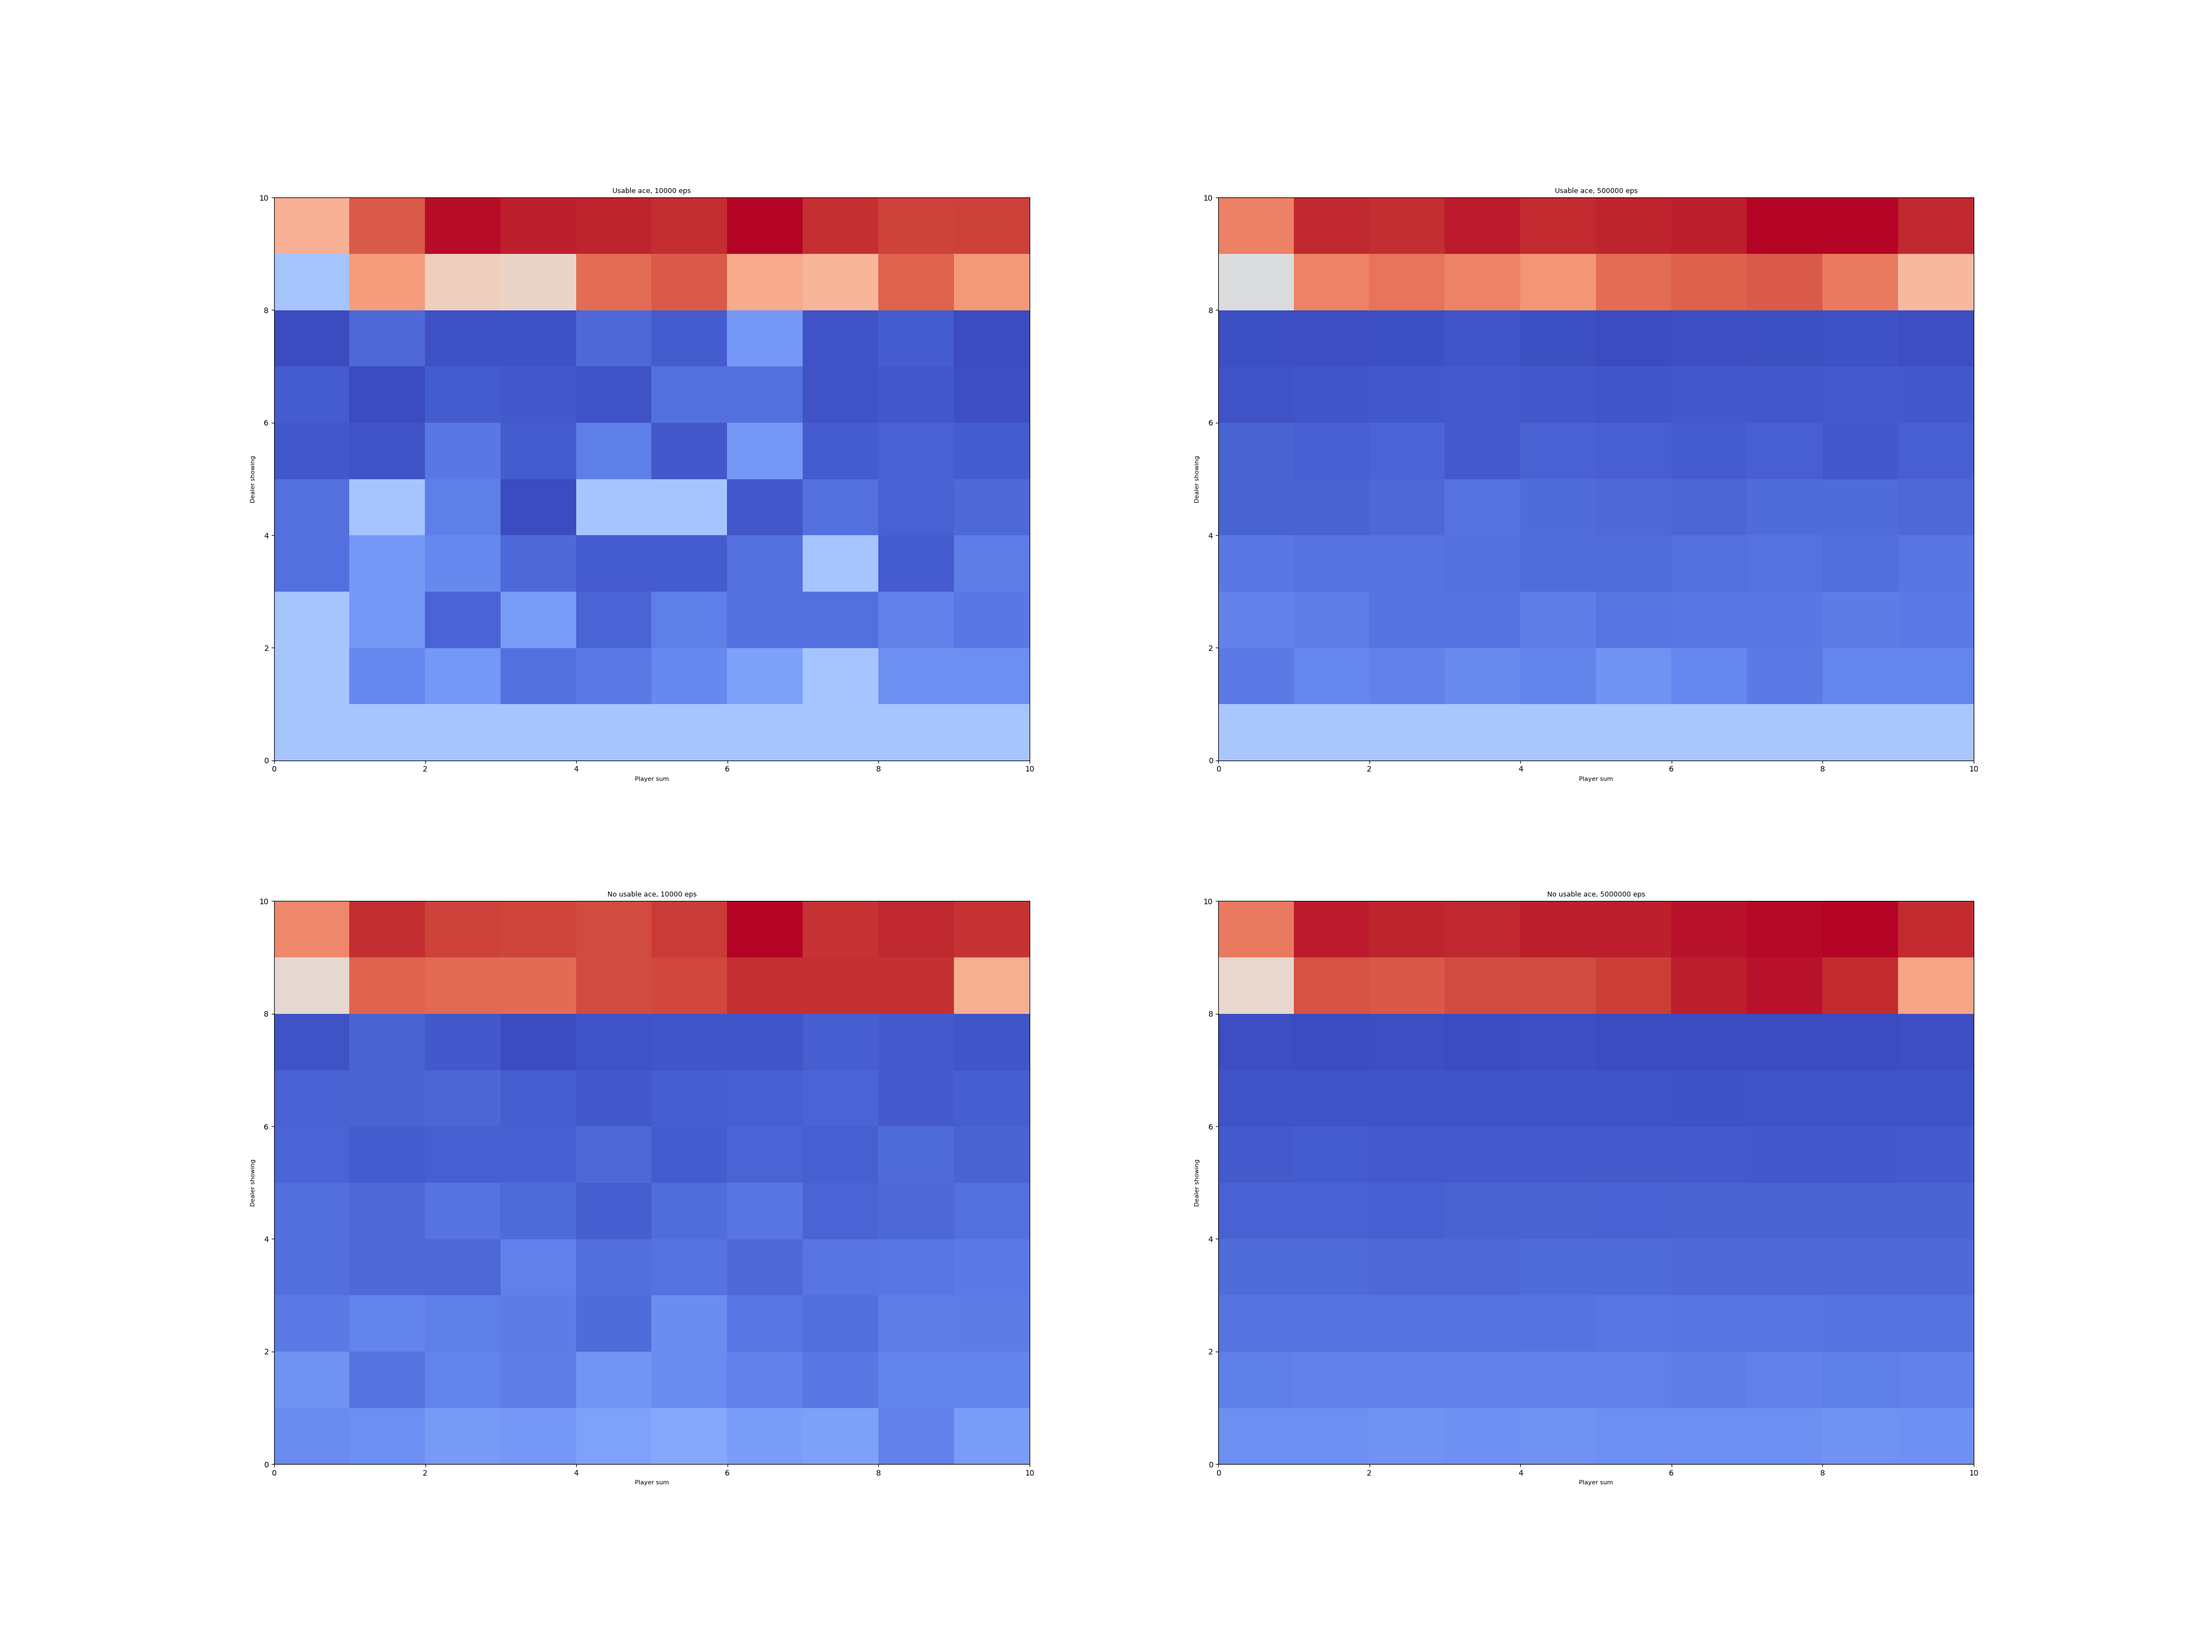
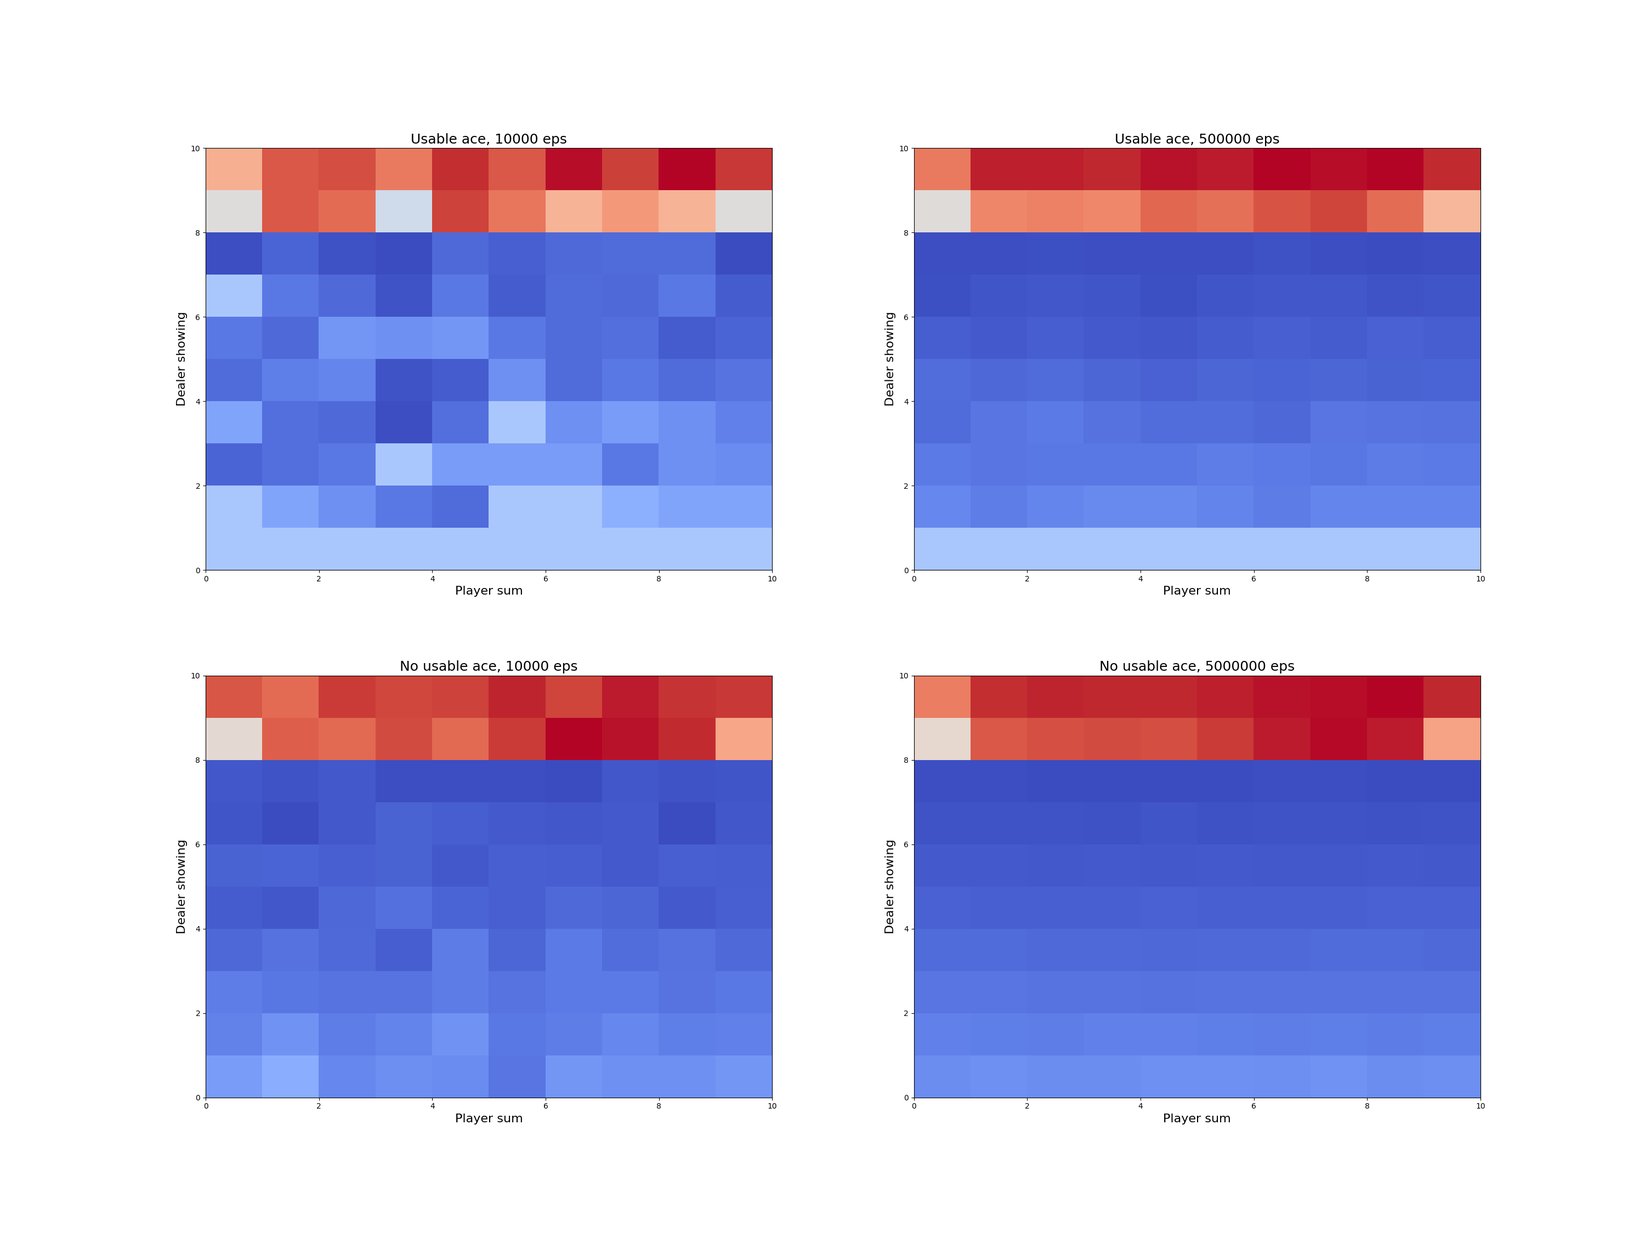
update blackjack.py

diff --git a/chapter-5/blackjack.py b/chapter-5/blackjack.py
@@ -138,7 +138,7 @@ if __name__ == '__main__':
 
     states = [states_usable_ace_1, states_usable_ace_2, states_no_usable_ace_1, states_no_usable_ace_2]
 
-    fig, axes = plt.subplots(2, 2, figsize=(40, 30))
+    fig, axes = plt.subplots(2, 2, figsize=(30, 22.5))
     plt.subplots_adjust(hspace=0.25, wspace=0.25)
     axes = axes.flatten()
 
@@ -146,8 +146,8 @@ if __name__ == '__main__':
 
     for state, ax, title in zip(states, axes, titles):
         ax.pcolor(state, cmap=cm.coolwarm)
-        ax.set_xlabel('Player sum', fontsize=8)
-        ax.set_ylabel('Dealer showing', fontsize=8)
-        ax.set_title(title, fontsize=9)
+        ax.set_xlabel('Player sum', fontsize=16)
+        ax.set_ylabel('Dealer showing', fontsize=16)
+        ax.set_title(title, fontsize=18)
     plt.savefig('./blackjack_first_visit_MC.png')
     plt.close()
